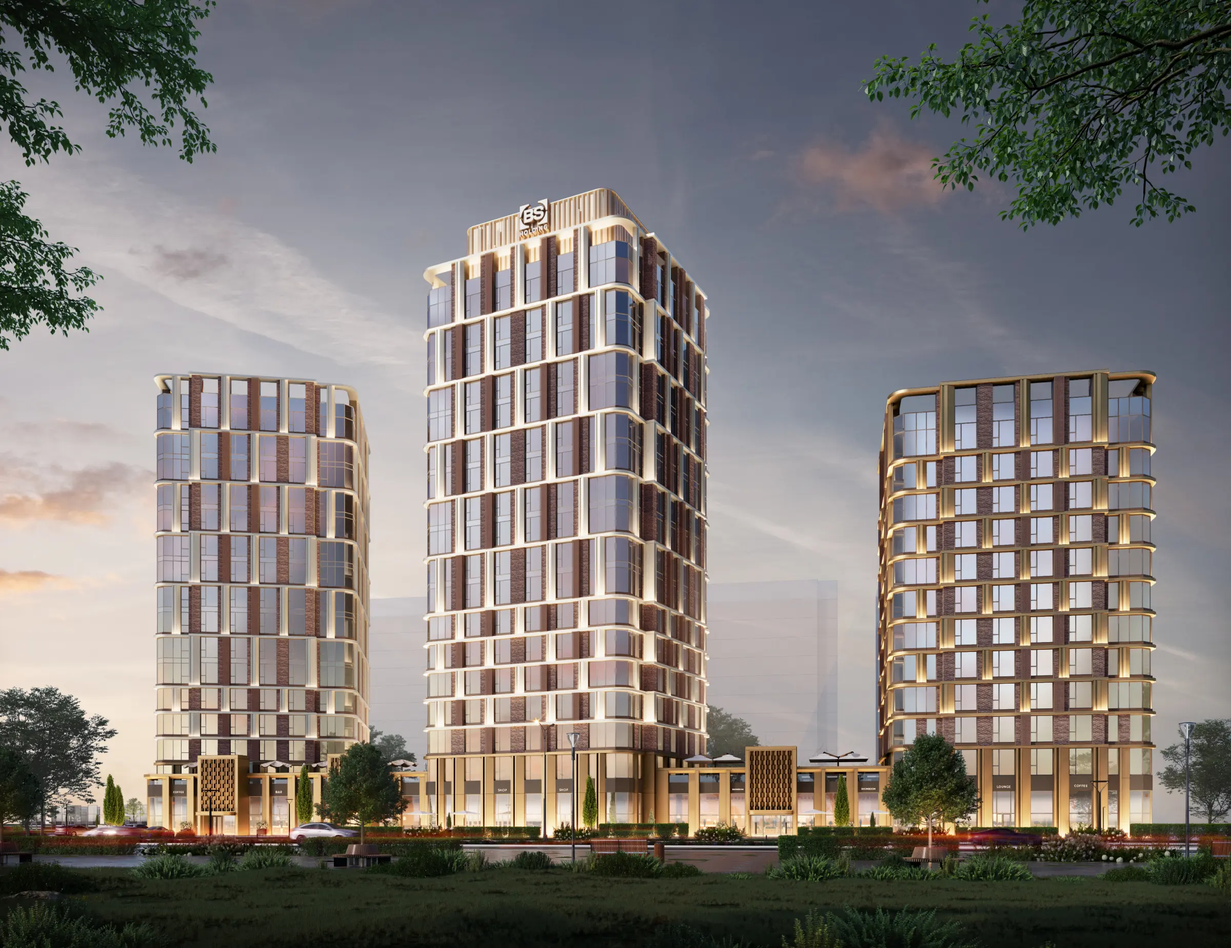
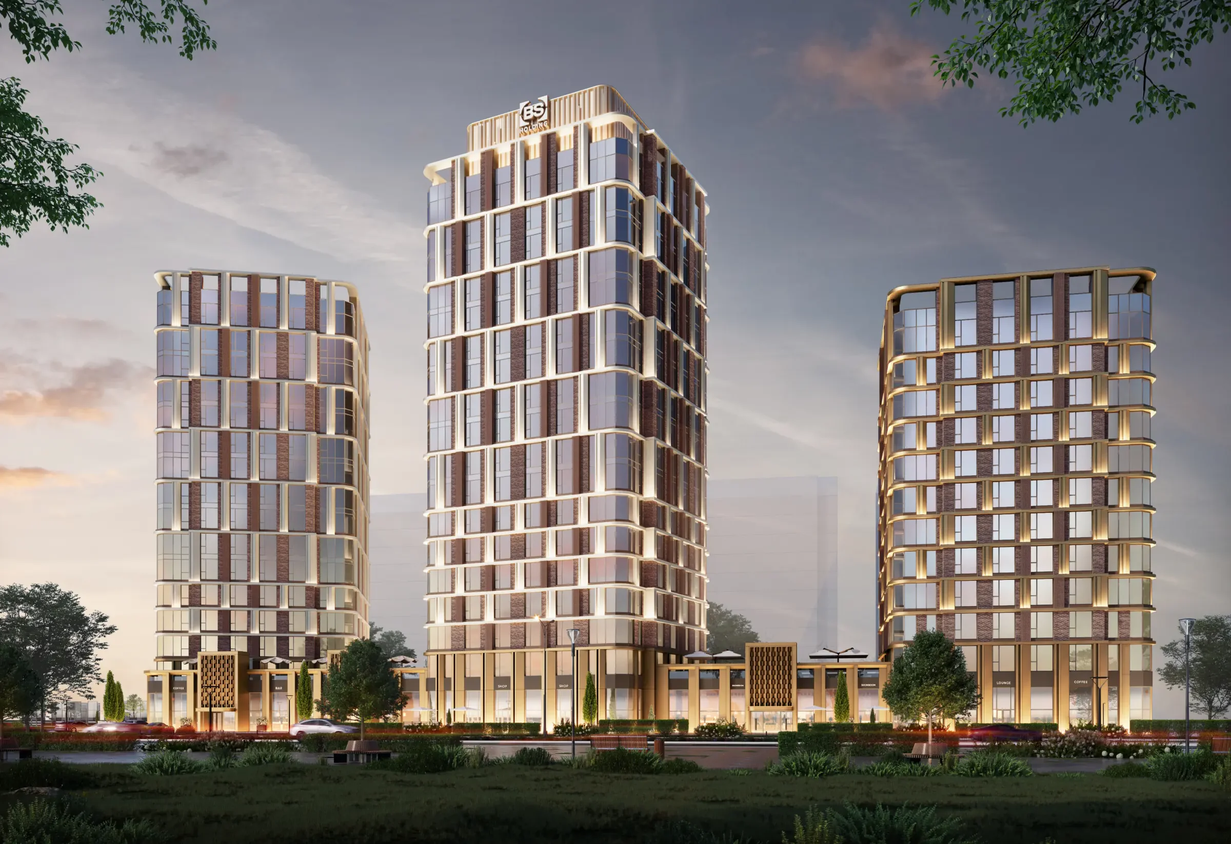
feat: replace paida to trade-in in hero

diff --git a/src/index.css b/src/index.css
@@ -1831,7 +1831,7 @@ input:focus {
 .hero__main {
   flex: 1;
   position: relative;
-  height: 497px;
+  height: 540px;
   border-radius: 16px;
   overflow: hidden;
   background: #0D403B;
@@ -1847,8 +1847,10 @@ input:focus {
   height: 100%;
   object-fit: cover;
   /* По вертикали кадр держится выше центра: на широких экранах обрезка идёт
-     снизу (газон), а верхушки башен с вывеской остаются в кадре. */
-  object-position: 72% 30%;
+     снизу (газон), а верхушки башен с вывеской остаются в кадре. При высоте
+     540px запаса сверху хватает, поэтому 40%, а не 30%: обрезка сверху и снизу
+     выравнивается почти как в макете (9%/9%). */
+  object-position: 72% 40%;
 }
 
 /* Ровная заливка, как в макете, а не градиент слева направо: при 0.92 у левого
@@ -1890,14 +1892,14 @@ input:focus {
    оказалась: 400px в колонке справа или во всю ширину под главным баннером.
    Здание привязано к правому краю, машина — к левому: при растягивании
    карточки расходится середина, а не края, где стоят объекты.
-   Геометрия снята с макета 400×540; карточка ниже (497px), поэтому слои
-   прижаты к низу — к кнопке, с которой они связаны визуально. */
+   Геометрия снята с макета 400×540 и на десктопе попадает в него один в один;
+   слои прижаты к низу — к кнопке, с которой они связаны визуально. */
 .hero__trade {
   position: relative;
   container-type: size;
   width: 400px;
   max-width: 100%;
-  height: 497px;
+  height: 540px;
   /* 16px, а не 20px из макета: слева стоит .hero__main с таким же радиусом. */
   border-radius: 16px;
   overflow: hidden;
@@ -3273,8 +3275,12 @@ input:focus {
     flex-direction: column;
   }
 
+  /* Во всю ширину фиксированная высота давала кадр ещё панорамнее
+     десктопного. Пропорция держит обрезку на уровне десктопа (~79% кадра)
+     при любой ширине колонки. */
   .hero__main {
-    height: 440px;
+    height: auto;
+    aspect-ratio: 1.65;
   }
 
   .hero__trade {
@@ -3579,6 +3585,7 @@ input:focus {
 @media (max-width: 768px) {
   .hero__main {
     height: auto;
+    aspect-ratio: auto;
     min-height: 420px;
     border-radius: 12px;
   }
